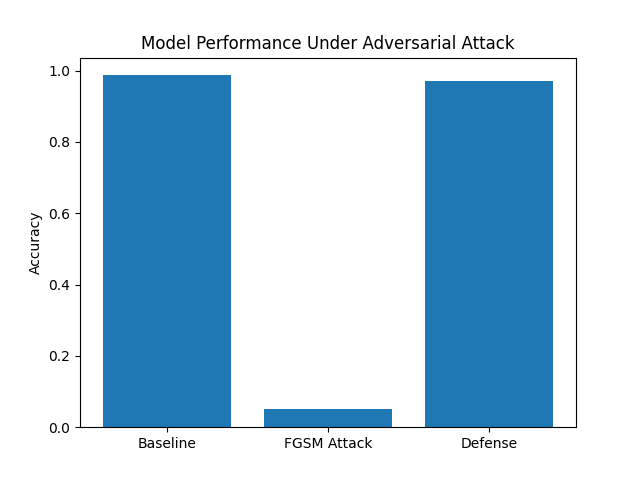
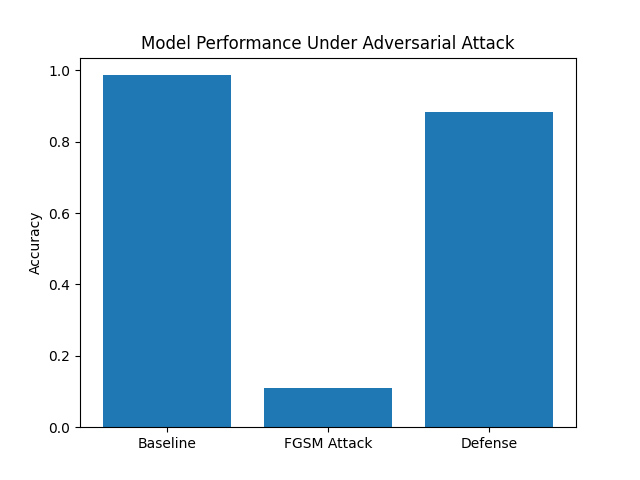
Added project documentation

Changed region(s): [[0.6562, 0.1562, 0.875, 0.25], [0.4062, 0.7812, 0.625, 0.875]]

diff --git a/README.md b/README.md
@@ -1,1 +1,90 @@
-# AI-Security-Project
+# AI Security Capstone Project
+
+## Overview
+This project demonstrates how machine learning systems can be vulnerable to adversarial attacks and how those attacks can be defended against.
+
+A Convolutional Neural Network (CNN) was trained using the MNIST handwritten digit dataset. The model was then attacked using the Fast Gradient Sign Method (FGSM), causing a major drop in accuracy. Finally, adversarial training was used to improve the model's robustness.
+
+---
+
+## Technologies Used
+
+- Python
+- PyTorch
+- NumPy
+- Matplotlib
+
+---
+
+## Dataset
+
+MNIST handwritten digit dataset
+
+- 60,000 training images
+- 10,000 testing images
+- 10 classes (digits 0–9)
+
+---
+
+## Project Stages
+
+### 1. Baseline Model
+A CNN model was trained on clean MNIST data.
+
+**Accuracy:** ~ 96-98%
+
+---
+
+### 2. Adversarial Attack (FGSM)
+
+FGSM was used to generate adversarial examples that slightly modified the input images.
+
+**Accuracy Under Attack:** ~ 4-7%
+
+---
+
+### 3. Defense (Adversarial Training)
+
+The model was retrained using adversarial examples.
+
+**Defended Accuracy:** ~ 95-99%
+
+---
+
+## Results
+
+| Stage | Accuracy |
+|-------|----------|
+| Baseline | 98.22% |
+| FGSM Attack | 5.66% |
+| Defense | 98.83% |
+
+---
+
+## Visualization
+
+Project output graph:
+
+results/model_results.png
+
+---
+
+## How to Run
+
+### Clone Repository
+
+git clone (https://github.com/yourusername/AI-Security-Project.git)
+
+### Install Dependencies
+
+pip install -r requirements.txt
+
+### Run Project
+
+python main.py
+
+---
+
+## Author
+
+Rommell St. Preux